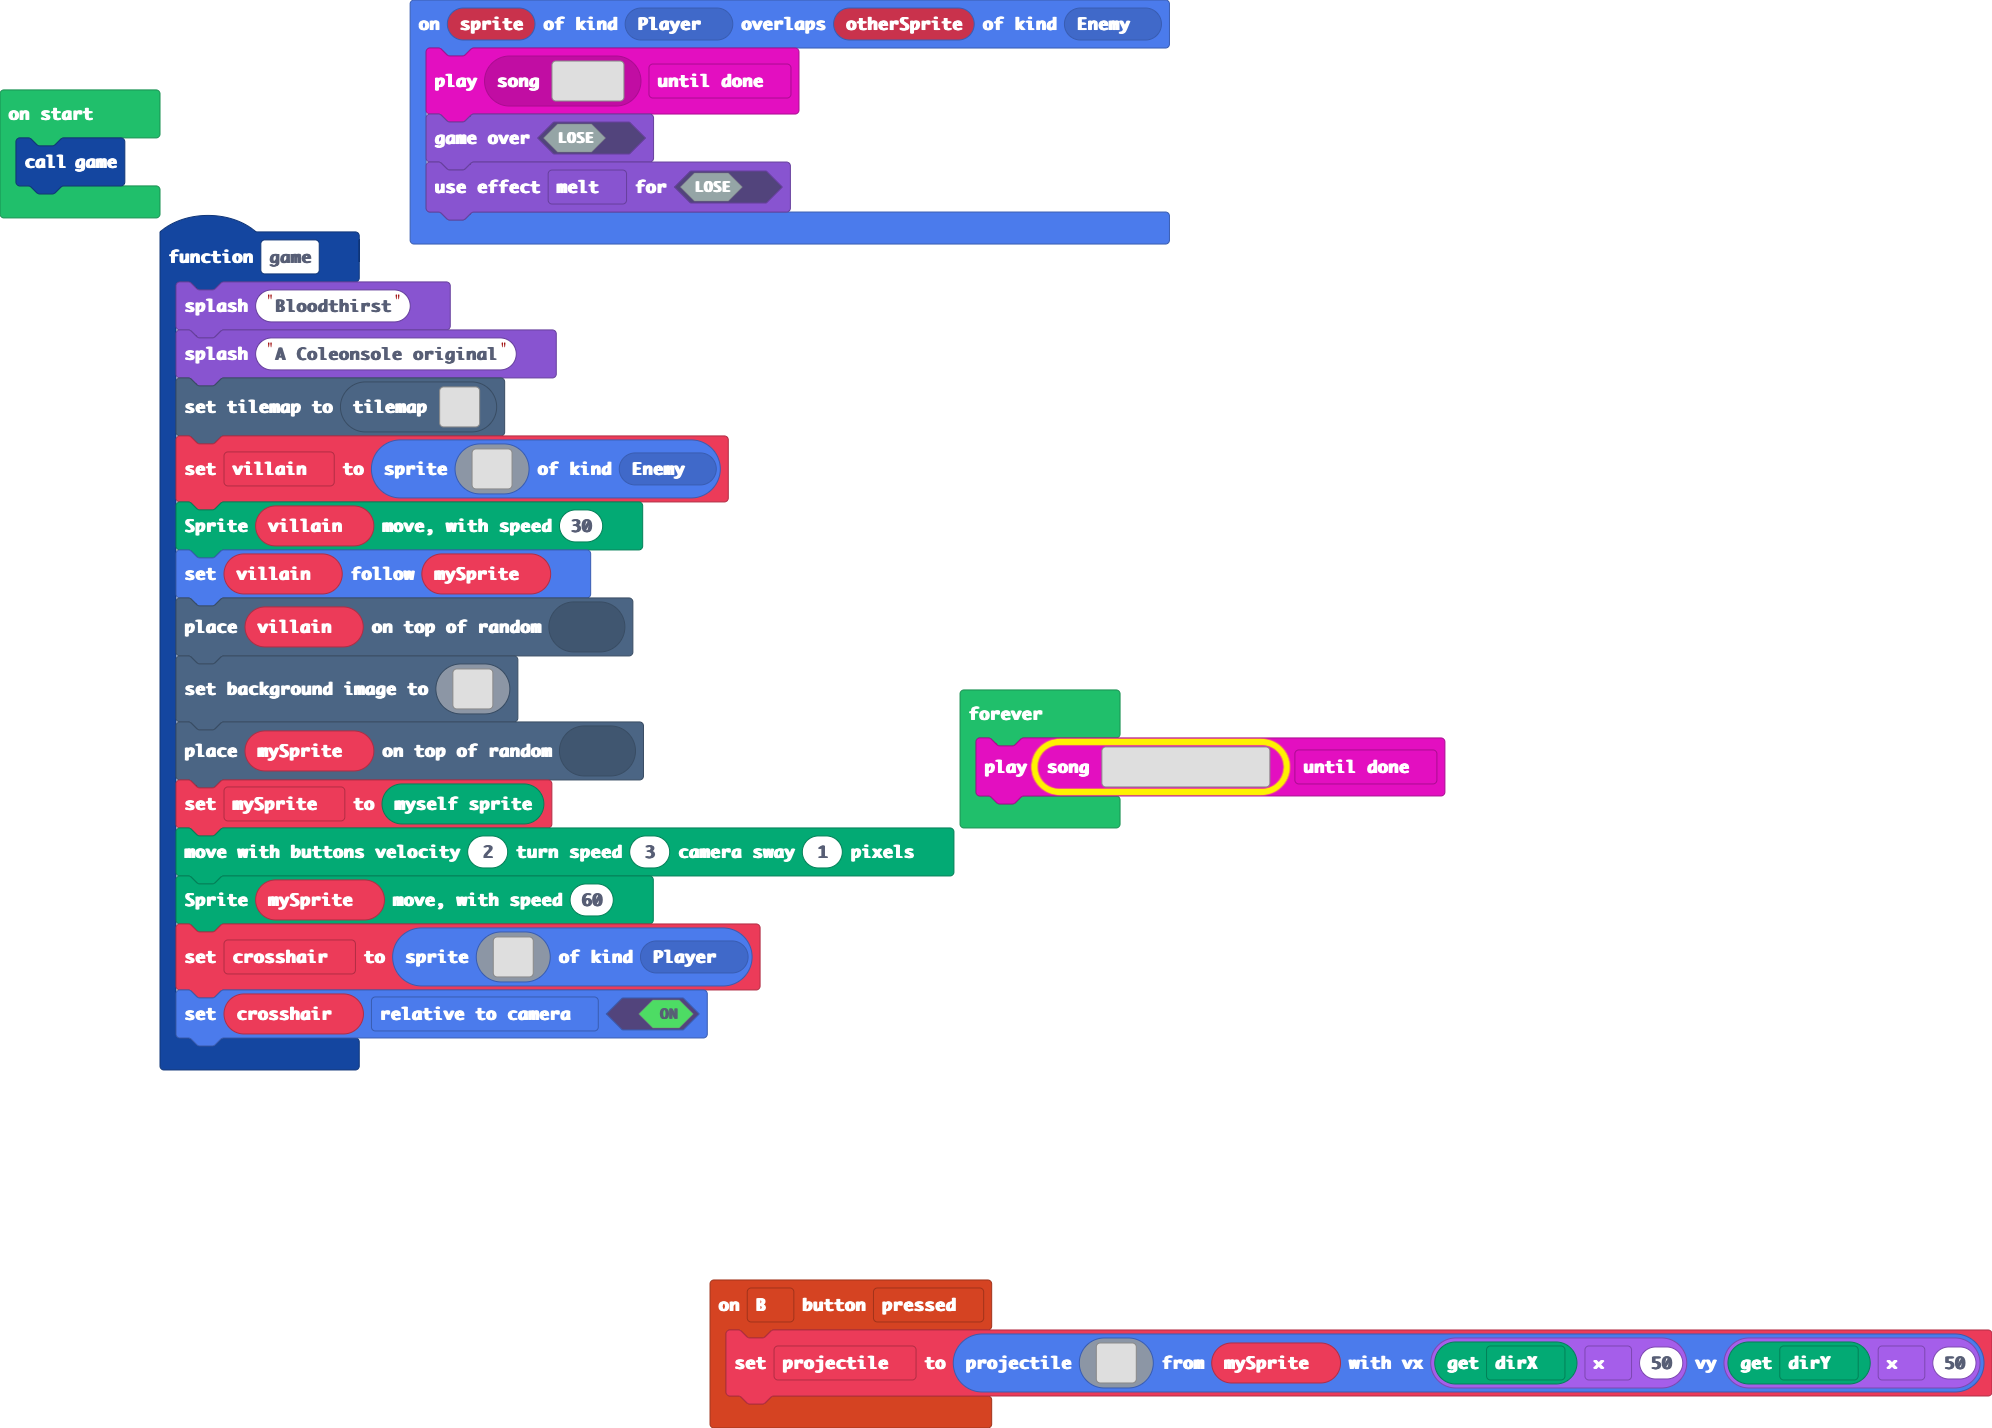
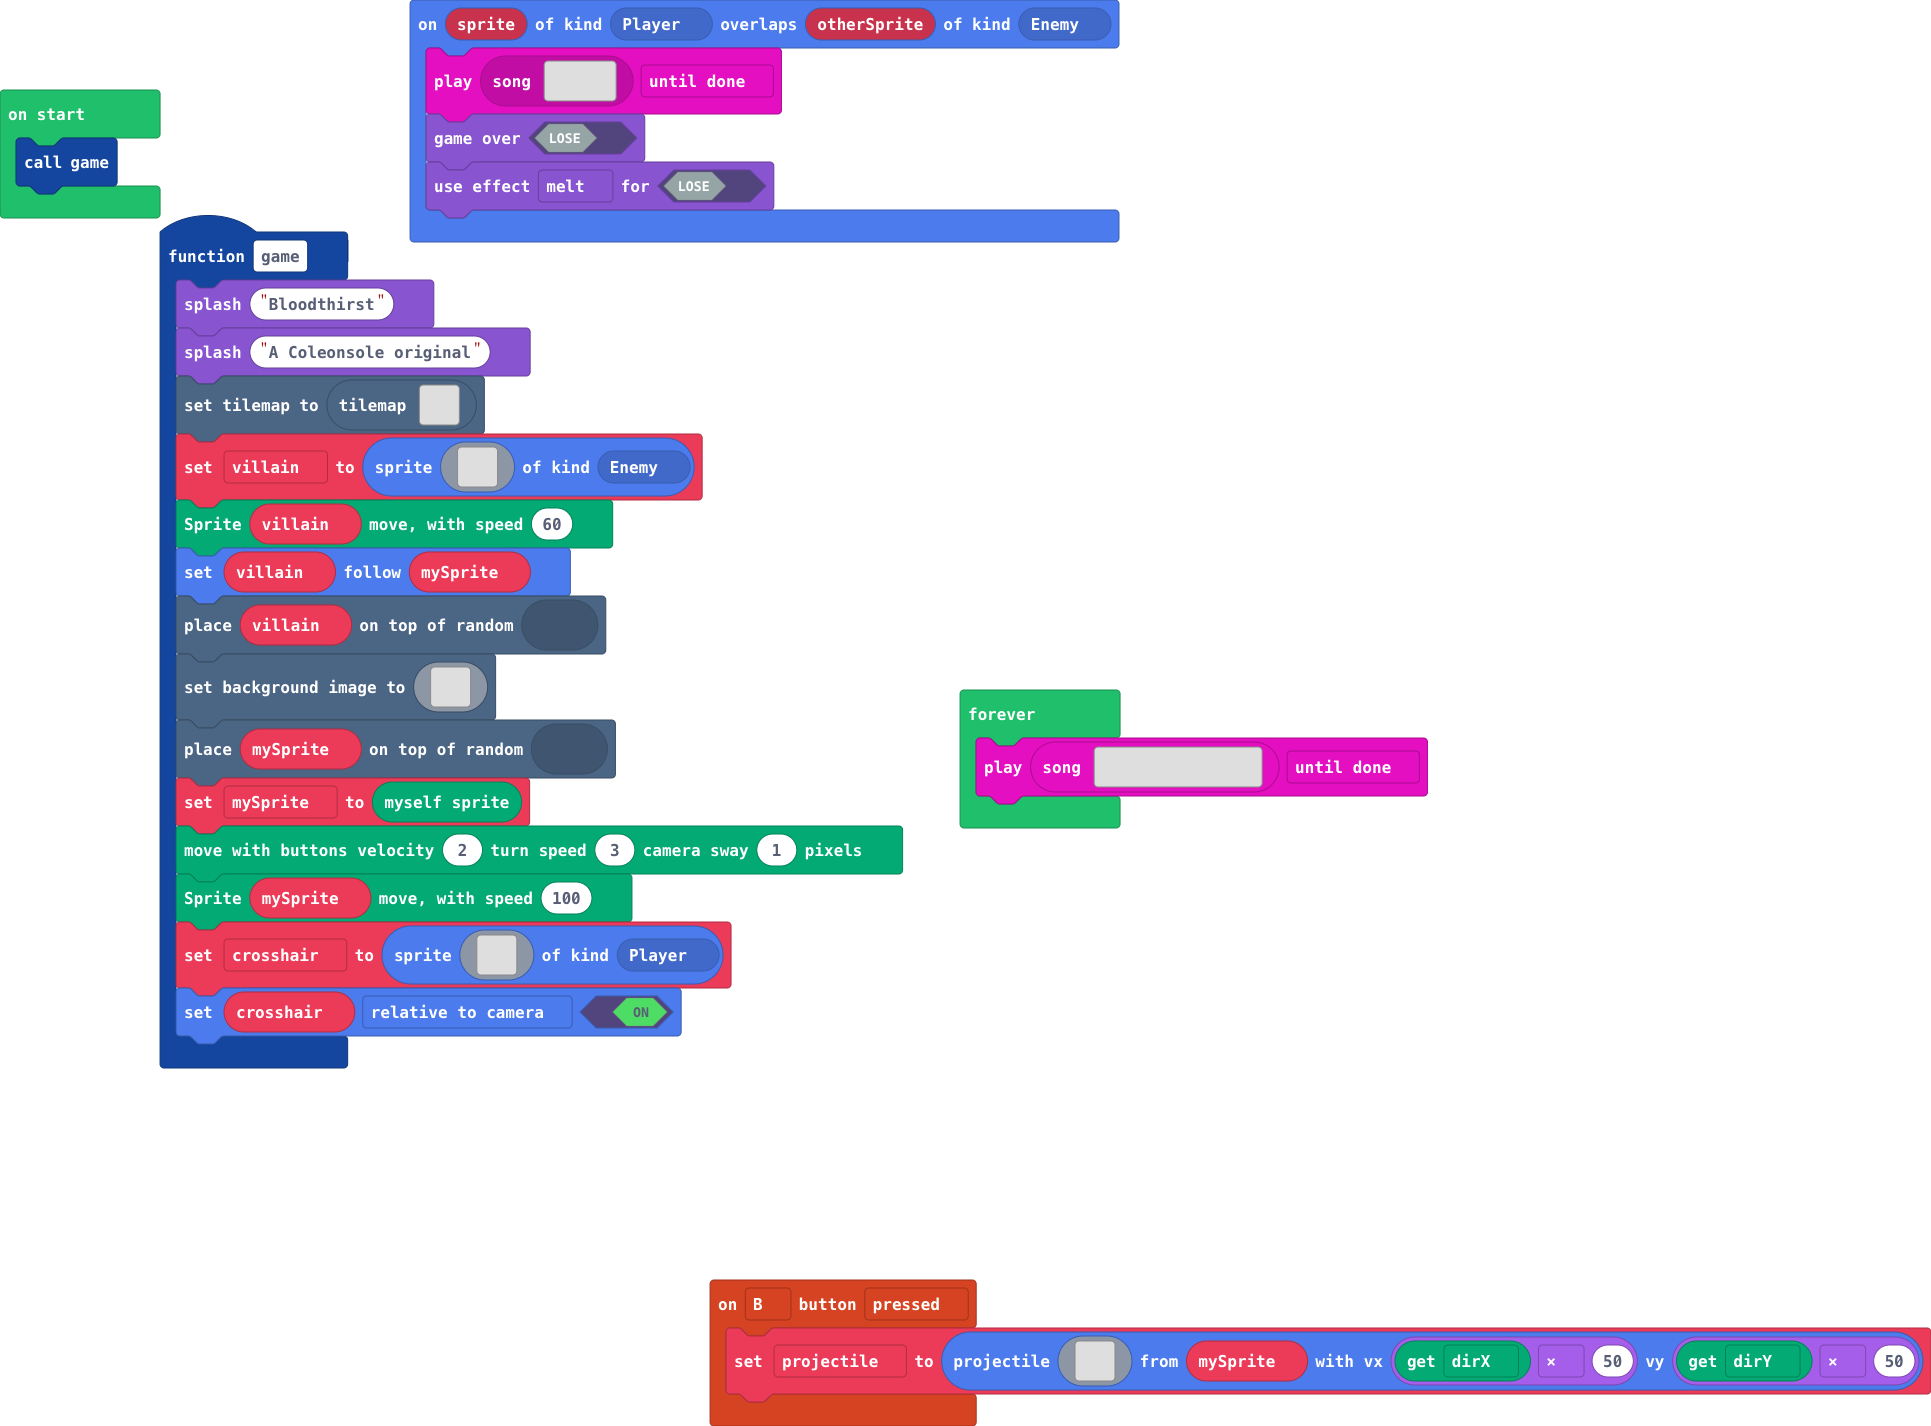
sepped cahanges

diff --git a/main.ts b/main.ts
@@ -20,7 +20,7 @@ function game2 () {
         . . . f f f f f f f f f 2 . . . 
         . . . . . f f . . f f . 2 . . . 
         `, SpriteKind.Enemy)
-    Render.move(villain, 30)
+    Render.move(villain, 60)
     villain.follow(mySprite)
     tiles.placeOnRandomTile(villain, sprites.dungeon.floorDarkDiamond)
     scene.setBackgroundImage(img`
@@ -148,7 +148,7 @@ function game2 () {
     tiles.placeOnRandomTile(mySprite, sprites.castle.tilePath5)
     mySprite = Render.getRenderSpriteVariable()
     Render.moveWithController(2, 3, 1)
-    Render.move(mySprite, 60)
+    Render.move(mySprite, 100)
     crosshair = sprites.create(img`
         . . . . . . . . . . . . . . . . 
         . . . . . . . . . . . . . . . . 
